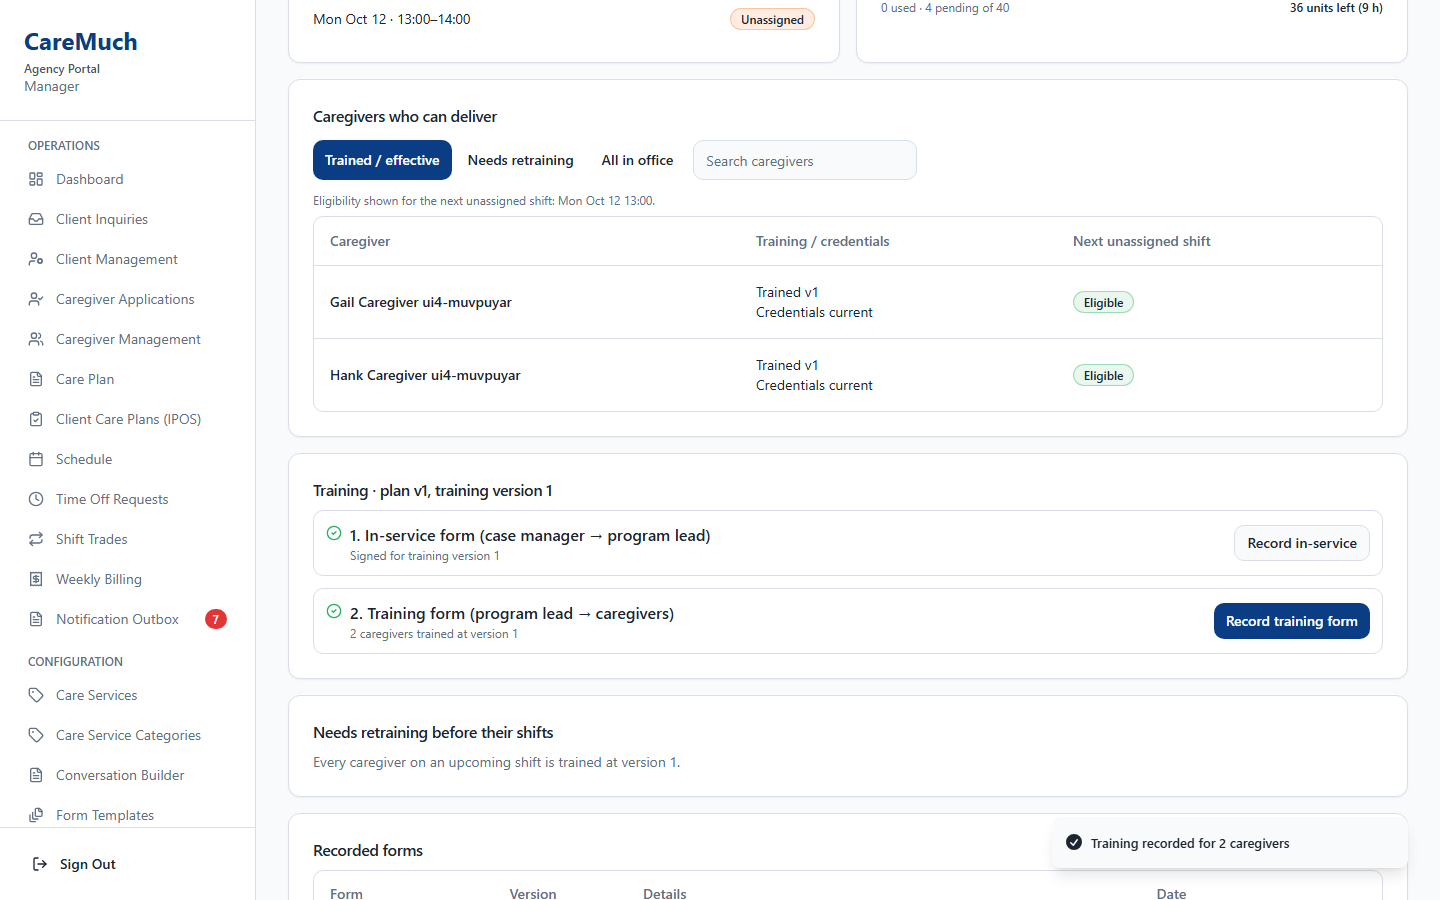
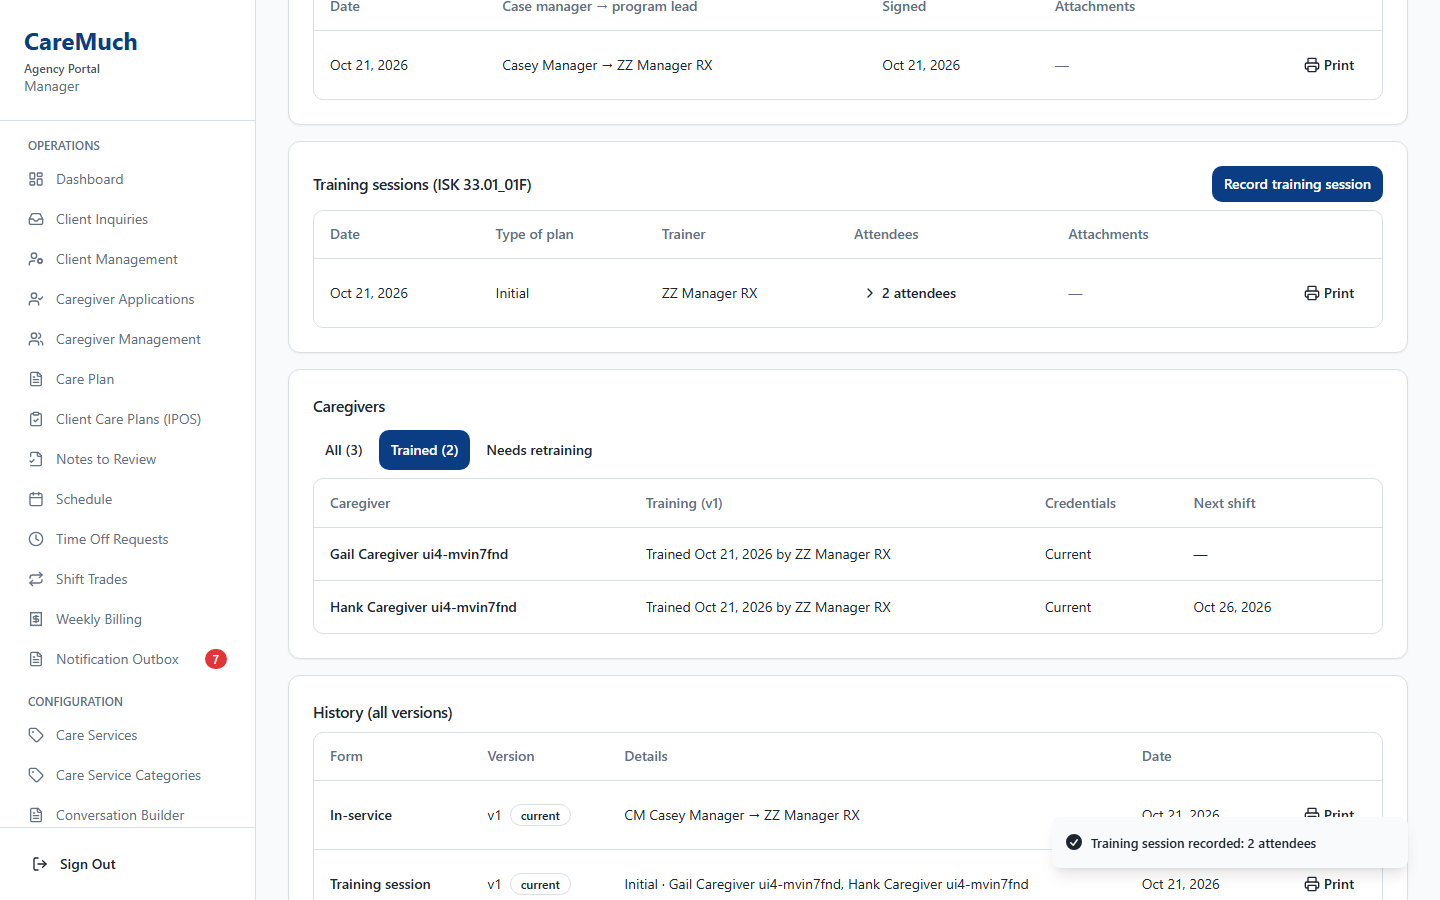
Post-demo 1c: round4 rewritten for the S14/S15 screens (Training tab, sessions, roster; Schedule › button) - 26/26

diff --git a/tests/ripple/README.md b/tests/ripple/README.md
@@ -89,7 +89,7 @@ skew.
 | `node tests/ripple/ui/round9.cjs` | **UI round 9 (S11) in a real browser**: the Dashboard "Care plan compliance" section — every panel count equals its RPC on the fixture (onboarding, credentials, units at risk, retraining, readiness, notes to review / overdue), rows (N of 8 + missing items, ★ overdue first, next shift, reasons), no clinical text, every deep link lands on the right record / tab, 390, agency admin, hr_staff / scheduler without it, a Kind-Care manager unchanged. Screenshots go to `docs/screenshots/ripple-ui/round9/`. |
 | `node tests/ripple/ui/round10.cjs [--undo]` | **Demo UX (Oct 19) in a real browser**, own tagged office in the test agency (never RPLDEMO): clickable rows with "Open ›" on Client Care Plans, Notes to Review (table and 390 cards) and Virtual Offices (card / name like Configure; the switch, print icon and row actions do only their own job; a click in a dialog opened from a row stays put; Enter on the focused row); the Review panel at the end of a note (statement required for Mark reviewed, confirm dialog, Return without it, "Reviewed by … · date" + Print), 1440 and 390. `--undo` adds Part 2 (Undo review). Screenshots go to `docs/screenshots/ripple-ui/round10/`. |
 | `node tests/ripple/dev/undo-review.cjs <before|after>` | **Demo UX Part 2 (undo a note review, `20261026120000`)** on the real project: `before` = no `undo_progress_note_review`, the events CHECK the rollback restores (md5, 51 values) and the 17 note / billing / units functions it relies on (md5); `after` = ACL via aclexplode (authenticated only), CHECK 52 values, those functions unchanged; undo before any bill (Submitted, units back, the note keeps its units, one audit row without PHI), the caregiver still can't edit, review again / return; an open bill drops the note (not_reviewed → not_in_bill_yet → rebuild); refused once approved / billed; 8 role / office / agency / anon refusals; NB1 |
-| `node tests/ripple/ui/round11.cjs` | **S14 + S15 in a real browser** (own tagged office, never RPLDEMO): the risk panel's "Schedule ›" button; Schedule opened with `?client=` shows a Client select (no pill), "All clients" clears it and the URL, "← Back to <client>'s care plan"; the client **Training** tab (header N of M trained, in-service, sessions with attendees, roster with All / Trained / Needs retraining, history), "Add to a session" records a session, the Scheduling tab keeps shifts + eligibility with a link to Training, onboarding arrows land on Training, hr_staff's `/training/:clientId` shows the same tab, 390. Screenshots go to `docs/screenshots/ripple-ui/round11/`. **round4's S6 training checks and its P3 ("Schedule ->" link) describe the screens S14/S15 replaced** and are not updated yet. |
+| `node tests/ripple/ui/round11.cjs` | **S14 + S15 in a real browser** (own tagged office, never RPLDEMO): the risk panel's "Schedule ›" button; Schedule opened with `?client=` shows a Client select (no pill), "All clients" clears it and the URL, "← Back to <client>'s care plan"; the client **Training** tab (header N of M trained, in-service, sessions with attendees, roster with All / Trained / Needs retraining, history), "Add to a session" records a session, the Scheduling tab keeps shifts + eligibility with a link to Training, onboarding arrows land on Training, hr_staff's `/training/:clientId` shows the same tab, 390. Screenshots go to `docs/screenshots/ripple-ui/round11/`. round4 was rewritten for these screens (Oct 21). |
 | `node tests/ripple/dev/post-demo.cjs <before|after>` | Post-demo 1a + 1b on the real project: `before` = the reader's stored body (md5), identity arguments and ACL, no `add_training_attendees`; `after` = same identity arguments and ACL with the new body (aclexplode), history review → review undone → review, attendees added to a session of the current version, refusals (duplicate, other office, 6 callers, superseded version), NB1 |
 | `node tests/ripple/demo/seed-demo.cjs [--apply\|--reset]`, `verify-demo.cjs`, `teardown-demo.cjs [--apply]` | **Persistent demo on DEV** in its own agency ("Ripple Effects – Demo Agency" / office "Ripple Effects – Demo", owner-approved): dry run by default; `--apply` creates, `--reset` rebuilds it to the starting state after a demo; read-only verification; count-checked teardown (incl. the agency); `login-check.cjs` proves one login per role. Scenario and users: `tests/ripple/demo/README.md`. The suites are unaffected by it. |
 | `node tests/ripple/ui/demo-capture.cjs` | **Demo screenshots** of the demo office (read-only: dialogs and sheets opened then cancelled, the seeded states used for billed / returned), 25 screens at 1440 and 390 into `docs/screenshots/ripple-ui/demo/`; every screen's text checked for test tags, "ZZ", the demo tag and Ripple staff names. Run `seed-demo.cjs --reset` afterwards. Walk-through: `docs/ripple-demo-script.md`. |

diff --git a/docs/known-issues.md b/docs/known-issues.md
@@ -1452,6 +1452,6 @@ office's rows were agency-visible in the shared agency, so 5 comparisons differe
 - **Seeded applications:** the existing `caregiver_registrations` insert trigger logs `caregiver_application_received`
   with `is_demo = false`, so the demo agency's 3 seeded applications count as real events in that agency's analytics.
   The demo reset deletes them.
-- **Tests:** `tests/ripple/ui/round4.cjs` still has its S6 training checks (Scheduling-tab chips, retraining list,
+- **(Closed Oct 21: round4 rewritten, 26/26)** **Tests:** `tests/ripple/ui/round4.cjs` still had its S6 training checks (Scheduling-tab chips, retraining list,
   "Record training form") and P3 ("Schedule ->" link). S14 / S15 replaced those screens on purpose; round11 covers the
   new ones. round4 needs its own update before it can pass again.
